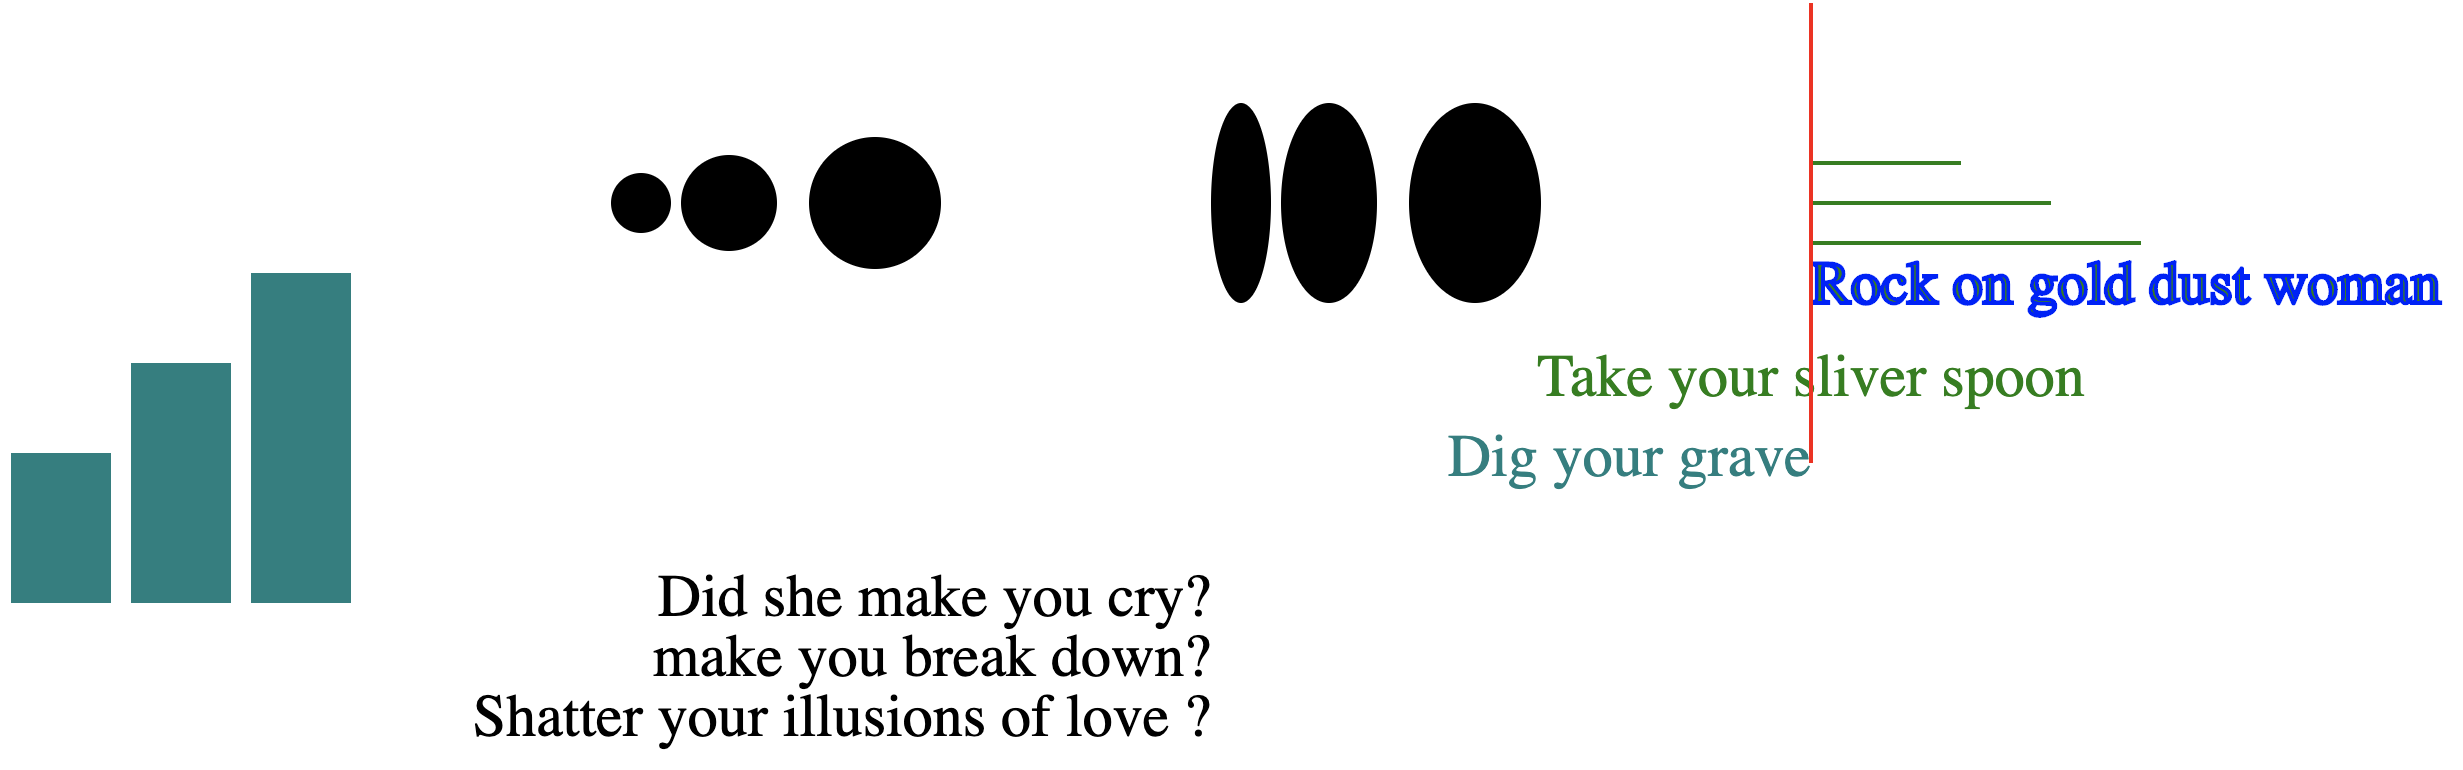
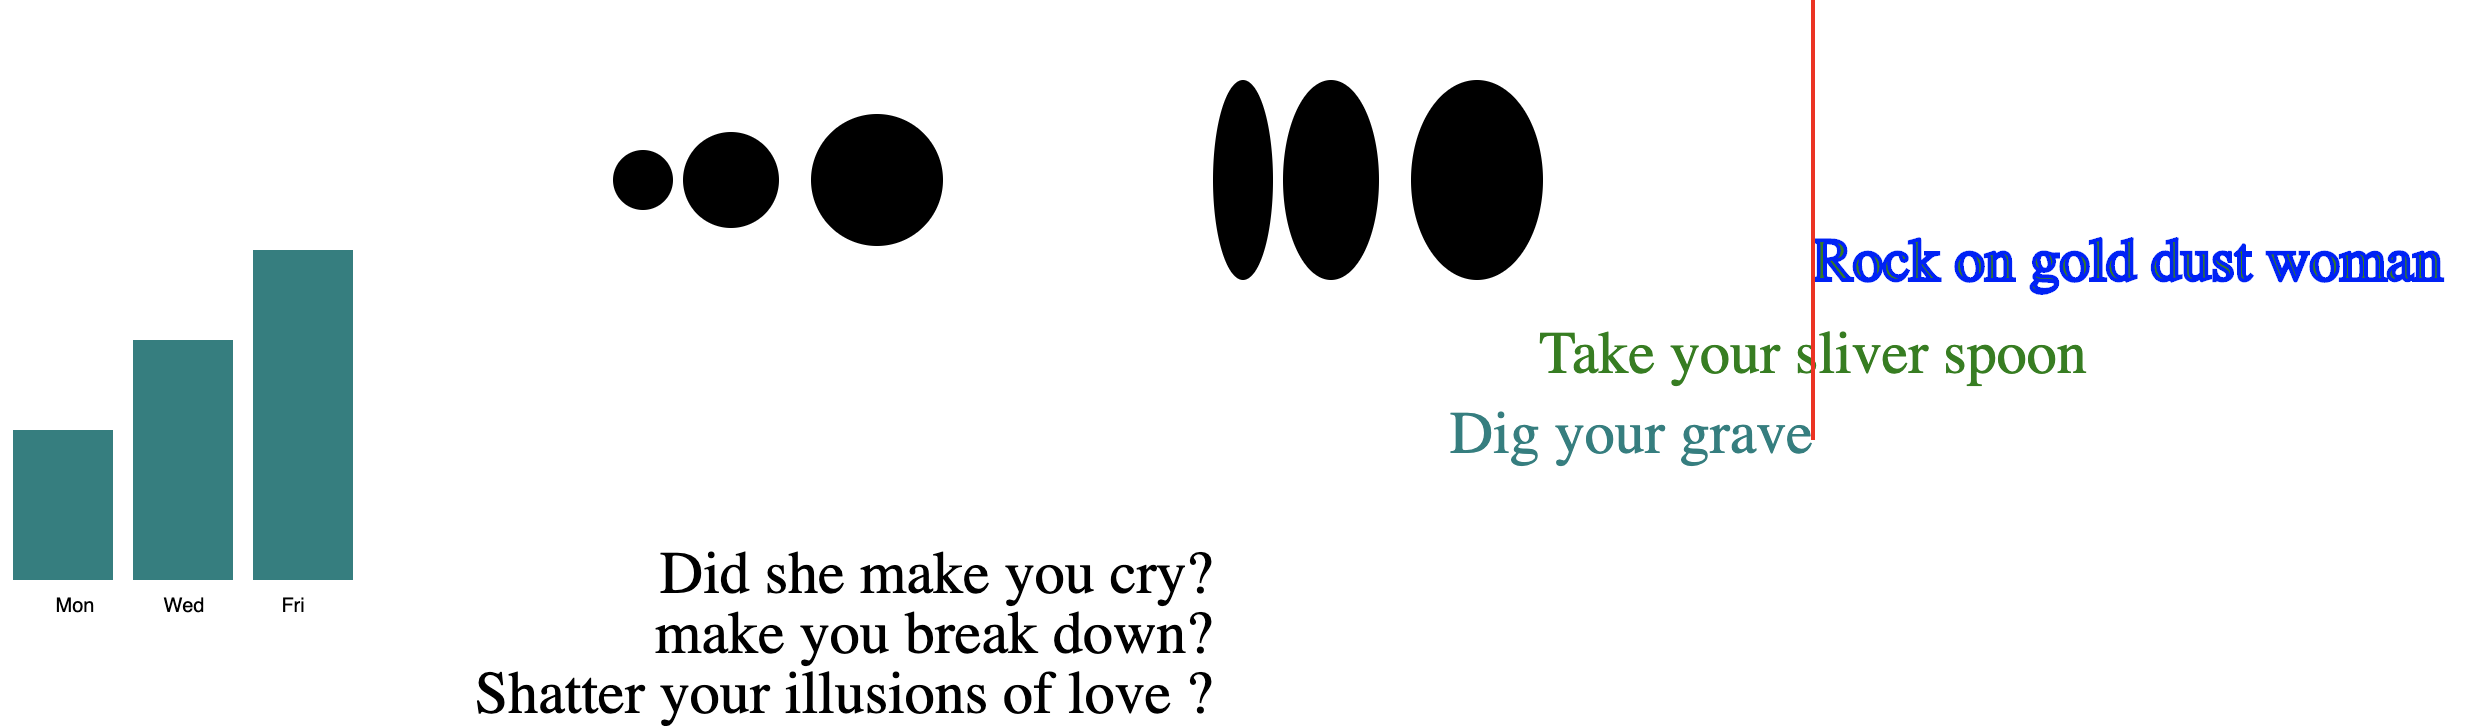
words added to x axis of bar chart

diff --git a/01-basic/shapes.js b/01-basic/shapes.js
@@ -1,4 +1,24 @@
 const dataArray = [5, 8, 11];
+const dataDays = ["Mon", "Wed", "Fri"];
+
+// const x = d3
+//   .scaleOrdinal()
+//   .domain(dataDays)
+//   .range([25, 85, 145]);
+
+// const x = d3
+//   .scalePoint()
+//   .domain(dataDays)
+//   .range([0, 170]);
+
+const x = d3
+  .scaleBand()
+  .domain(dataDays)
+  .range([0, 170])
+  .padding(0.1176);
+
+let xAxis = d3.axisBottom(x);
+
 let svg = d3
   .select("body")
   .append("svg")
@@ -21,6 +41,11 @@ svg
   .attr("y", function(d, i) {
     return 300 - d * 15;
   });
+svg
+  .append("g")
+  .attr("class", "x axis hidden")
+  .attr("transform", "translate(0,300)")
+  .call(xAxis);
 let xCircleAxis = 300;
 svg
   .selectAll("circle.circle")

diff --git a/01-basic/style.css b/01-basic/style.css
@@ -3,3 +3,7 @@ body {
   margin: 15;
   height: 100%;
 }
+g.hidden line,
+g.hidden path {
+  display: none;
+}
